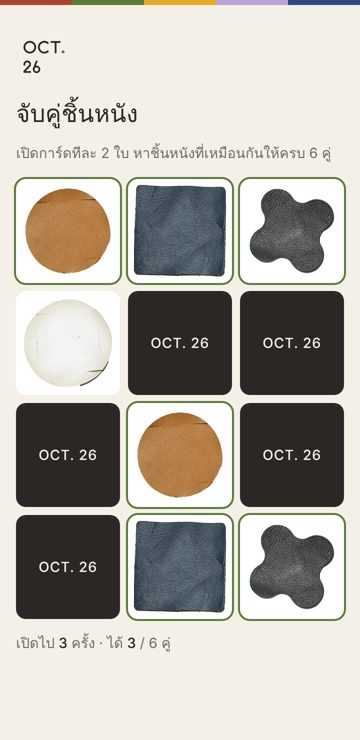
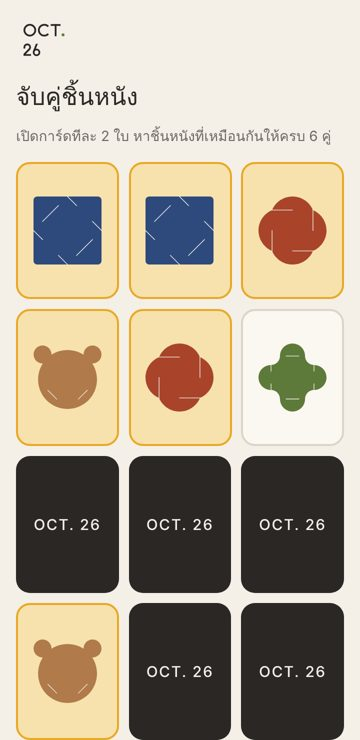
Booth game: cards drawn as in the first booth game, as the owner asked
Owner 26 Oct: keep the look of the first booth game (booth-game-20261025). The cards now carry
its flat drawings of patterns 01-05 and 07 in the house colours (src/game-cards.json, taken
from that game's built page), 3:4 cards that flip, matched pairs in sunflower. The photo cards
go; /game/done keeps the 01 photo the brief asks for.

Claude-Session: https://claude.ai/code/session_01JbgEUjroqhBveZrEaPETJc

diff --git a/website/public/game.html b/website/public/game.html
@@ -4,11 +4,11 @@
 <link rel="icon" href="/assets/logo/square-light.svg" type="image/svg+xml"><meta name="theme-color" content="#F4F0E8">
 <link rel="preconnect" href="https://fonts.googleapis.com"><link rel="preconnect" href="https://fonts.gstatic.com" crossorigin>
 <link rel="stylesheet" href="https://fonts.googleapis.com/css2?family=Anuphan:wght@500&family=IBM+Plex+Sans+Thai:wght@400;600&family=Jost:wght@400;500&display=swap">
-<link rel="preload" as="image" href="/assets/game/01-3.webp"><link rel="preload" as="image" href="/assets/game/03-1.webp"><link rel="preload" as="image" href="/assets/game/04-2.webp"><link rel="preload" as="image" href="/assets/game/05-6.webp"><link rel="preload" as="image" href="/assets/game/07-4.webp"><link rel="preload" as="image" href="/assets/game/05-2.webp">
+
 <style>
 /* Booth game (30 Oct–1 Nov 2026): one narrow column on cotton, charcoal type, the five family colours only as a thin band.
    No form, no cookie, no storage: finishing loads /game/done, which the site's request stats can count. */
-:root{--cotton:#F4F0E8;--paper:#FBF9F4;--face:#FFFFFF;--charcoal:#2A2725;--muted:#6E6A64;--line:#DCD4C7;--mom:#5E7A3A;
+:root{--cotton:#F4F0E8;--paper:#FBF9F4;--sheet:#FBF8F2;--sun:#E9A825;--sun-soft:#F7E2AE;--charcoal:#2A2725;--muted:#6E6A64;--line:#DCD4C7;--mom:#5E7A3A;
   --th:"Anuphan","IBM Plex Sans Thai",system-ui,sans-serif;--body:"IBM Plex Sans Thai",system-ui,sans-serif;--latin:"Jost",system-ui,sans-serif;color-scheme:light}
 *{box-sizing:border-box}
 html{-webkit-text-size-adjust:100%}
@@ -20,22 +20,25 @@ main{max-width:440px;margin:0 auto;padding:24px max(16px,env(safe-area-inset-rig
 .view{display:flex;flex-direction:column;gap:14px}
 .logo{width:56px;height:56px;display:block}
 h1{font-family:var(--th);font-weight:500;font-size:24px;line-height:1.25;margin:0}
-.done h1{font-size:30px}
+.end h1{font-size:30px}
 p{margin:0}
 .muted{color:var(--muted);font-size:14px;text-wrap:pretty}
 h1{text-wrap:balance}
-.board{display:grid;grid-template-columns:repeat(3,minmax(0,1fr));gap:8px}
-.cd{position:relative;aspect-ratio:1/1;border:0;border-radius:10px;padding:0;cursor:pointer;background:var(--charcoal);color:var(--cotton);
-  font:500 14px var(--latin);letter-spacing:.04em;display:grid;place-items:center;touch-action:manipulation;-webkit-tap-highlight-color:transparent}
-.cd img{position:absolute;inset:6px;width:calc(100% - 12px);height:calc(100% - 12px);object-fit:contain;opacity:0}
-.cd.open,.cd.done{background:var(--face)}
-.cd.open img,.cd.done img{opacity:1}
-.cd.open span,.cd.done span{opacity:0}
-.cd.done{outline:2px solid var(--mom);cursor:default}
-.cd:focus-visible{outline:3px solid #E9A825;outline-offset:2px}
-@media (prefers-reduced-motion:no-preference){.cd{transition:background .18s}.cd img,.cd span{transition:opacity .18s}}
+.board{display:grid;grid-template-columns:repeat(3,minmax(0,1fr));gap:10px}
+/* cards as in the first booth game (booth-game-20261025): charcoal back, a flat drawing of each pattern on the front,
+   a flip; a matched pair turns sunflower */
+.cd{position:relative;aspect-ratio:3/4;border:0;padding:0;border-radius:14px;background:transparent;cursor:pointer;
+  touch-action:manipulation;-webkit-tap-highlight-color:transparent}
+.face{position:absolute;inset:0;border-radius:14px;display:grid;place-items:center;backface-visibility:hidden;-webkit-backface-visibility:hidden}
+.back{background:var(--charcoal);color:var(--cotton);font:500 15px var(--latin);letter-spacing:.08em}
+.front{background:var(--sheet);transform:rotateY(180deg);border:2px solid var(--line)}
+.front svg{width:72%;height:auto}
+.cd.open .back,.cd.done .back{transform:rotateY(180deg)}.cd.open .front,.cd.done .front{transform:rotateY(360deg)}
+.cd.done{cursor:default}.cd.done .front{background:var(--sun-soft);border-color:var(--sun)}
+.cd:focus-visible{outline:3px solid #2E4A7D;outline-offset:3px;border-radius:14px}
+@media (prefers-reduced-motion:no-preference){.face{transition:transform .3s}}
 .count{font-size:14px;color:var(--muted)}.count b{color:var(--charcoal);font-family:var(--latin);font-weight:500}
-.done{text-align:center;align-items:center}
+.end{text-align:center;align-items:center}
 .time{font-family:var(--latin);font-size:18px;color:var(--muted)}
 .ticket{width:100%;background:#fff;border:2px solid var(--charcoal);border-radius:16px;padding:18px 16px;display:flex;flex-direction:column;align-items:center;gap:6px}
 .ticket b{font-family:var(--th);font-weight:500;font-size:17px;line-height:1.3}
@@ -57,7 +60,7 @@ h1{text-wrap:balance}
 <p class="count" aria-live="polite">เปิดไป <b id="moves">0</b> ครั้ง · ได้ <b id="pairs">0</b> / 6 คู่</p>
 <noscript><p class="small">เบราว์เซอร์นี้เปิดเกมไม่ได้ แวะมาที่บูธ OCT. 26 ได้เลย</p></noscript>
 </section>
-<section class="view done" id="v-done" hidden>
+<section class="view end" id="v-done" hidden>
 <img class="logo" src="/assets/logo/square-light.svg" alt="OCT. 26">
 <h1>เล่นจบแล้ว</h1>
 <p class="time" id="now" aria-label="เวลาตอนนี้"></p>
@@ -68,7 +71,7 @@ h1{text-wrap:balance}
 <div class="btns"><a class="btn dark" href="https://www.instagram.com/oct.26_brand/" target="_blank" rel="noopener">Instagram</a><a class="btn light" href="https://www.facebook.com/oct26brand" target="_blank" rel="noopener">Facebook</a></div>
 <p class="small">ไม่ติดตามก็รับได้ · คนละ 1 แผ่น</p>
 </section>
-<section class="view done" id="v-ended" hidden>
+<section class="view end" id="v-ended" hidden>
 <img class="logo" src="/assets/logo/square-light.svg" alt="OCT. 26">
 <h1>กิจกรรมที่บูธจบแล้ว ขอบคุณที่แวะมา</h1>
 <div class="btns"><a class="btn dark" href="/">หน้าแรก</a></div>
@@ -77,7 +80,7 @@ h1{text-wrap:balance}
 </main>
 <script>
 // game page; after the last booth day both pages show the "ended" view (build.py also writes it once rebuilt)
-const G = {"kind": "game", "cards": ["01-3", "03-1", "04-2", "05-6", "07-4", "05-2"], "names": {"01-3": "ชิ้นหนัง 01 หมี", "03-1": "ชิ้นหนัง 03 กากบาทแคปซูล", "04-2": "ชิ้นหนัง 04 สี่เหลี่ยมมน", "05-6": "ชิ้นหนัง 05 วงกลม", "07-4": "ชิ้นหนัง 07 กากบาทข้อต่อวงกลม", "05-2": "ชิ้นหนัง 05 วงกลม"}, "until": "2026-11-01T17:00:00+07:00"};
+const G = {"kind": "game", "cards": ["01", "02", "03", "04", "05", "07"], "names": {"01": "แพตเทิร์น 01 หมี", "02": "แพตเทิร์น 02 กังหัน", "03": "แพตเทิร์น 03 กากบาทแคปซูล", "04": "แพตเทิร์น 04 สี่เหลี่ยมมน", "05": "แพตเทิร์น 05 วงกลม", "07": "แพตเทิร์น 07 กากบาทข้อต่อวงกลม"}, "until": "2026-11-01T17:00:00+07:00", "svgs": {"01": "<svg viewBox=\"-2 -2 100.5 94.1\" aria-hidden=\"true\"><g fill=\"#B07A4A\" fill-rule=\"evenodd\" stroke=\"none\" stroke-linejoin=\"round\"><g transform=\"translate(-3.900 -18.800) rotate(-45 52.18 52.18)\"><path d=\"M100.650,53.709 C95.699,48.758 87.670,48.758 82.719,53.709 C82.629,53.799 82.544,53.893 82.457,53.985 C80.841,46.368 77.077,39.115 71.161,33.199 C65.245,27.283 57.992,23.519 50.375,21.903 C50.468,21.816 50.561,21.731 50.651,21.641 C55.602,16.689 55.602,8.661 50.651,3.710 C45.699,-1.242 37.671,-1.242 32.720,3.710 C27.768,8.661 27.768,16.689 32.720,21.641 C32.810,21.731 32.903,21.816 32.995,21.903 C25.378,23.519 18.126,27.283 12.210,33.199 C-4.070,49.478 -4.070,75.872 12.209,92.151 C28.488,108.430 54.882,108.430 71.161,92.151 C77.077,86.234 80.841,78.982 82.457,71.365 C82.544,71.457 82.629,71.550 82.719,71.641 C87.670,76.592 95.699,76.592 100.650,71.641 C105.602,66.689 105.602,58.661 100.650,53.709 Z\"/></g></g><g fill=\"none\" stroke=\"#F4F0E8\" stroke-width=\"0.9\" stroke-linecap=\"round\"><g transform=\"translate(-3.900 -18.800) rotate(-45 52.18 52.18)\"> <line x1=\"11.200\" y1=\"71.615\" x2=\"11.200\" y2=\"53.705\"/> <line x1=\"32.745\" y1=\"93.160\" x2=\"50.655\" y2=\"93.160\"/> </g></g></svg>", "02": "<svg viewBox=\"-2 -2 94.0 94.0\" aria-hidden=\"true\"><g fill=\"#A9442B\" fill-rule=\"evenodd\" stroke=\"none\" stroke-linejoin=\"round\"><path d=\"M90.000,45.000 C90.000,32.834 82.599,22.398 72.053,17.946 C67.602,7.401 57.166,0.000 45.000,0.000 C32.834,0.000 22.398,7.401 17.947,17.946 C7.401,22.398 0.000,32.834 0.000,45.000 C0.000,57.166 7.401,67.602 17.947,72.053 C22.398,82.599 32.834,90.000 45.000,90.000 C57.166,90.000 67.602,82.599 72.053,72.053 C82.599,67.602 90.000,57.166 90.000,45.000 Z\"/></g><g fill=\"none\" stroke=\"#F4F0E8\" stroke-width=\"0.9\" stroke-linecap=\"round\"><line x1=\"73.054\" y1=\"72.054\" x2=\"45.000\" y2=\"72.054\"/> <line x1=\"17.946\" y1=\"73.054\" x2=\"17.946\" y2=\"45.000\"/> <line x1=\"72.054\" y1=\"16.946\" x2=\"72.054\" y2=\"45.000\"/> <line x1=\"16.946\" y1=\"17.946\" x2=\"45.000\" y2=\"17.946\"/></g></svg>", "03": "<svg viewBox=\"-2 -2 94.01 94.0\" aria-hidden=\"true\"><g fill=\"#B9A3D6\" fill-rule=\"evenodd\" stroke=\"none\" stroke-linejoin=\"round\"><path d=\"M67.508,22.500 C67.505,22.500 67.503,22.501 67.499,22.501 C67.499,22.499 67.500,22.497 67.500,22.496 C67.500,10.070 57.426,-0.004 45.000,-0.004 C32.573,-0.004 22.499,10.070 22.499,22.496 C22.499,22.497 22.500,22.499 22.500,22.500 C10.073,22.500 0.000,32.574 0.000,45.000 C0.000,57.427 10.073,67.500 22.500,67.500 C22.501,67.500 22.503,67.500 22.504,67.500 C22.504,79.926 32.578,90.000 45.004,90.000 C57.430,90.000 67.504,79.926 67.504,67.500 C67.505,67.500 67.507,67.500 67.508,67.500 C79.934,67.500 90.008,57.427 90.008,45.000 C90.008,32.574 79.934,22.500 67.508,22.500 Z\"/></g><g fill=\"none\" stroke=\"#F4F0E8\" stroke-width=\"0.9\" stroke-linecap=\"round\"><line x1=\"22.500\" y1=\"56.250\" x2=\"22.500\" y2=\"33.750\"/> <line x1=\"67.500\" y1=\"56.250\" x2=\"67.500\" y2=\"33.750\"/> <line x1=\"68.500\" y1=\"22.500\" x2=\"56.000\" y2=\"22.500\"/> <line x1=\"21.500\" y1=\"22.500\" x2=\"34.000\" y2=\"22.500\"/> <line x1=\"68.500\" y1=\"67.500\" x2=\"56.000\" y2=\"67.500\"/> <line x1=\"21.500\" y1=\"67.500\" x2=\"34.000\" y2=\"67.500\"/></g></svg>", "04": "<svg viewBox=\"-2 -2 94.0 94.0\" aria-hidden=\"true\"><g fill=\"#2E4A7D\" fill-rule=\"evenodd\" stroke=\"none\" stroke-linejoin=\"round\"><path d=\"M90.000,5.000 L90.000,85.000 C90.000,87.761 87.761,90.000 85.000,90.000 L5.000,90.000 C2.238,90.000 0.000,87.761 0.000,85.000 L0.000,5.000 C0.000,2.238 2.238,0.000 5.000,0.000 L85.000,0.000 C87.761,0.000 90.000,2.238 90.000,5.000 Z\"/></g><g fill=\"none\" stroke=\"#F4F0E8\" stroke-width=\"0.9\" stroke-linecap=\"round\"><line x1=\"56.893\" y1=\"78.107\" x2=\"78.107\" y2=\"56.893\"/> <line x1=\"11.893\" y1=\"33.107\" x2=\"33.107\" y2=\"11.893\"/> <line x1=\"90.707\" y1=\"45.707\" x2=\"77.930\" y2=\"32.930\"/> <line x1=\"44.293\" y1=\"-0.707\" x2=\"57.070\" y2=\"12.070\"/> <line x1=\"45.707\" y1=\"90.707\" x2=\"32.930\" y2=\"77.930\"/> <line x1=\"-0.707\" y1=\"44.293\" x2=\"12.070\" y2=\"57.070\"/></g></svg>", "05": "<svg viewBox=\"-2 -2 94.0 94.0\" aria-hidden=\"true\"><g fill=\"#E9A825\" fill-rule=\"evenodd\" stroke=\"none\" stroke-linejoin=\"round\"><path d=\"M90.000,45.000 C90.000,69.852 69.853,90.000 45.000,90.000 C20.147,90.000 0.000,69.852 0.000,45.000 C0.000,20.147 20.147,-0.001 45.000,-0.001 C69.853,-0.001 90.000,20.147 90.000,45.000 Z\"/></g><g fill=\"none\" stroke=\"#F4F0E8\" stroke-width=\"0.9\" stroke-linecap=\"round\"><line x1=\"30.000\" y1=\"13.180\" x2=\"60.000\" y2=\"13.180\"/> <line x1=\"30.000\" y1=\"76.820\" x2=\"60.000\" y2=\"76.820\"/> <line x1=\"76.820\" y1=\"12.180\" x2=\"76.820\" y2=\"30.250\"/> <line x1=\"76.820\" y1=\"77.820\" x2=\"76.820\" y2=\"59.750\"/> <line x1=\"13.180\" y1=\"12.180\" x2=\"13.180\" y2=\"30.250\"/> <line x1=\"13.180\" y1=\"77.820\" x2=\"13.180\" y2=\"59.750\"/></g></svg>", "07": "<svg viewBox=\"-2 -2 94.0 94.0\" aria-hidden=\"true\"><g fill=\"#5E7A3A\" fill-rule=\"evenodd\" stroke=\"none\" stroke-linejoin=\"round\"><path d=\"M90.000,45.000 C90.000,35.846 82.580,28.426 73.427,28.426 C73.401,28.426 73.377,28.429 73.352,28.429 L73.333,28.410 C66.888,28.359 61.672,23.160 61.592,16.722 L61.584,16.714 C61.584,16.667 61.588,16.621 61.588,16.573 C61.588,7.420 54.168,0.000 45.015,0.000 C35.861,0.000 28.441,7.420 28.441,16.573 C28.441,16.617 28.445,16.660 28.445,16.704 L28.408,16.742 C28.318,23.167 23.112,28.353 16.678,28.409 L16.658,28.429 C16.630,28.429 16.602,28.426 16.573,28.426 C7.420,28.426 0.000,35.846 0.000,45.000 C0.000,54.153 7.420,61.573 16.573,61.573 C16.575,61.573 16.577,61.573 16.579,61.573 L16.579,61.573 C23.111,61.577 28.406,66.870 28.412,73.402 L28.441,73.432 C28.445,82.582 35.863,90.000 45.015,90.000 C54.168,90.000 61.588,82.580 61.588,73.427 C61.588,73.425 61.588,73.423 61.588,73.421 L61.588,73.421 C61.588,73.418 61.588,73.415 61.588,73.412 C61.588,66.874 66.888,61.573 73.427,61.573 C73.428,61.573 73.430,61.573 73.432,61.573 L73.432,61.573 C82.583,61.570 90.000,54.151 90.000,45.000 Z\"/></g><g fill=\"none\" stroke=\"#F4F0E8\" stroke-width=\"0.9\" stroke-linecap=\"round\"><line x1=\"36.460\" y1=\"16.570\" x2=\"53.560\" y2=\"16.570\"/> <line x1=\"36.460\" y1=\"73.430\" x2=\"53.560\" y2=\"73.430\"/> <line x1=\"73.440\" y1=\"27.427\" x2=\"73.440\" y2=\"36.700\"/> <line x1=\"73.440\" y1=\"62.573\" x2=\"73.440\" y2=\"53.300\"/> <line x1=\"16.580\" y1=\"27.427\" x2=\"16.580\" y2=\"36.700\"/> <line x1=\"16.580\" y1=\"62.574\" x2=\"16.580\" y2=\"53.300\"/></g></svg>"}};
 const $ = id => document.getElementById(id);
 function view(v){ ["game","done","ended"].forEach(k => $("v-" + k).hidden = k !== v); }
 if (Date.now() > Date.parse(G.until)) view("ended");
@@ -89,7 +92,7 @@ else if (G.kind === "done") {
   const deck = [...G.cards, ...G.cards];
   for (let i = deck.length - 1; i > 0; i--) { const j = Math.floor(Math.random() * (i + 1)); [deck[i], deck[j]] = [deck[j], deck[i]]; }
   const closed = i => `การ์ดใบที่ ${i + 1} ยังปิดอยู่`;
-  $("board").innerHTML = deck.map((k, i) => `<button class="cd" type="button" data-k="${k}" data-i="${i}" aria-label="${closed(i)}"><span aria-hidden="true">OCT. 26</span><img src="/assets/game/${k}.webp" alt=""></button>`).join("");
+  $("board").innerHTML = deck.map((k, i) => `<button class="cd" type="button" data-k="${k}" data-i="${i}" aria-label="${closed(i)}"><span class="face back" aria-hidden="true">OCT. 26</span><span class="face front" aria-hidden="true">${G.svgs[k]}</span></button>`).join("");
   let open = [], moves = 0, pairs = 0, lock = false;
   $("board").addEventListener("click", e => {
     const c = e.target.closest(".cd");

diff --git a/website/public/game/done.html b/website/public/game/done.html
@@ -8,7 +8,7 @@
 <style>
 /* Booth game (30 Oct–1 Nov 2026): one narrow column on cotton, charcoal type, the five family colours only as a thin band.
    No form, no cookie, no storage: finishing loads /game/done, which the site's request stats can count. */
-:root{--cotton:#F4F0E8;--paper:#FBF9F4;--face:#FFFFFF;--charcoal:#2A2725;--muted:#6E6A64;--line:#DCD4C7;--mom:#5E7A3A;
+:root{--cotton:#F4F0E8;--paper:#FBF9F4;--sheet:#FBF8F2;--sun:#E9A825;--sun-soft:#F7E2AE;--charcoal:#2A2725;--muted:#6E6A64;--line:#DCD4C7;--mom:#5E7A3A;
   --th:"Anuphan","IBM Plex Sans Thai",system-ui,sans-serif;--body:"IBM Plex Sans Thai",system-ui,sans-serif;--latin:"Jost",system-ui,sans-serif;color-scheme:light}
 *{box-sizing:border-box}
 html{-webkit-text-size-adjust:100%}
@@ -20,22 +20,25 @@ main{max-width:440px;margin:0 auto;padding:24px max(16px,env(safe-area-inset-rig
 .view{display:flex;flex-direction:column;gap:14px}
 .logo{width:56px;height:56px;display:block}
 h1{font-family:var(--th);font-weight:500;font-size:24px;line-height:1.25;margin:0}
-.done h1{font-size:30px}
+.end h1{font-size:30px}
 p{margin:0}
 .muted{color:var(--muted);font-size:14px;text-wrap:pretty}
 h1{text-wrap:balance}
-.board{display:grid;grid-template-columns:repeat(3,minmax(0,1fr));gap:8px}
-.cd{position:relative;aspect-ratio:1/1;border:0;border-radius:10px;padding:0;cursor:pointer;background:var(--charcoal);color:var(--cotton);
-  font:500 14px var(--latin);letter-spacing:.04em;display:grid;place-items:center;touch-action:manipulation;-webkit-tap-highlight-color:transparent}
-.cd img{position:absolute;inset:6px;width:calc(100% - 12px);height:calc(100% - 12px);object-fit:contain;opacity:0}
-.cd.open,.cd.done{background:var(--face)}
-.cd.open img,.cd.done img{opacity:1}
-.cd.open span,.cd.done span{opacity:0}
-.cd.done{outline:2px solid var(--mom);cursor:default}
-.cd:focus-visible{outline:3px solid #E9A825;outline-offset:2px}
-@media (prefers-reduced-motion:no-preference){.cd{transition:background .18s}.cd img,.cd span{transition:opacity .18s}}
+.board{display:grid;grid-template-columns:repeat(3,minmax(0,1fr));gap:10px}
+/* cards as in the first booth game (booth-game-20261025): charcoal back, a flat drawing of each pattern on the front,
+   a flip; a matched pair turns sunflower */
+.cd{position:relative;aspect-ratio:3/4;border:0;padding:0;border-radius:14px;background:transparent;cursor:pointer;
+  touch-action:manipulation;-webkit-tap-highlight-color:transparent}
+.face{position:absolute;inset:0;border-radius:14px;display:grid;place-items:center;backface-visibility:hidden;-webkit-backface-visibility:hidden}
+.back{background:var(--charcoal);color:var(--cotton);font:500 15px var(--latin);letter-spacing:.08em}
+.front{background:var(--sheet);transform:rotateY(180deg);border:2px solid var(--line)}
+.front svg{width:72%;height:auto}
+.cd.open .back,.cd.done .back{transform:rotateY(180deg)}.cd.open .front,.cd.done .front{transform:rotateY(360deg)}
+.cd.done{cursor:default}.cd.done .front{background:var(--sun-soft);border-color:var(--sun)}
+.cd:focus-visible{outline:3px solid #2E4A7D;outline-offset:3px;border-radius:14px}
+@media (prefers-reduced-motion:no-preference){.face{transition:transform .3s}}
 .count{font-size:14px;color:var(--muted)}.count b{color:var(--charcoal);font-family:var(--latin);font-weight:500}
-.done{text-align:center;align-items:center}
+.end{text-align:center;align-items:center}
 .time{font-family:var(--latin);font-size:18px;color:var(--muted)}
 .ticket{width:100%;background:#fff;border:2px solid var(--charcoal);border-radius:16px;padding:18px 16px;display:flex;flex-direction:column;align-items:center;gap:6px}
 .ticket b{font-family:var(--th);font-weight:500;font-size:17px;line-height:1.3}
@@ -57,7 +60,7 @@ h1{text-wrap:balance}
 <p class="count" aria-live="polite">เปิดไป <b id="moves">0</b> ครั้ง · ได้ <b id="pairs">0</b> / 6 คู่</p>
 <noscript><p class="small">เบราว์เซอร์นี้เปิดเกมไม่ได้ แวะมาที่บูธ OCT. 26 ได้เลย</p></noscript>
 </section>
-<section class="view done" id="v-done" >
+<section class="view end" id="v-done" >
 <img class="logo" src="/assets/logo/square-light.svg" alt="OCT. 26">
 <h1>เล่นจบแล้ว</h1>
 <p class="time" id="now" aria-label="เวลาตอนนี้"></p>
@@ -68,7 +71,7 @@ h1{text-wrap:balance}
 <div class="btns"><a class="btn dark" href="https://www.instagram.com/oct.26_brand/" target="_blank" rel="noopener">Instagram</a><a class="btn light" href="https://www.facebook.com/oct26brand" target="_blank" rel="noopener">Facebook</a></div>
 <p class="small">ไม่ติดตามก็รับได้ · คนละ 1 แผ่น</p>
 </section>
-<section class="view done" id="v-ended" hidden>
+<section class="view end" id="v-ended" hidden>
 <img class="logo" src="/assets/logo/square-light.svg" alt="OCT. 26">
 <h1>กิจกรรมที่บูธจบแล้ว ขอบคุณที่แวะมา</h1>
 <div class="btns"><a class="btn dark" href="/">หน้าแรก</a></div>
@@ -77,7 +80,7 @@ h1{text-wrap:balance}
 </main>
 <script>
 // done page; after the last booth day both pages show the "ended" view (build.py also writes it once rebuilt)
-const G = {"kind": "done", "cards": ["01-3", "03-1", "04-2", "05-6", "07-4", "05-2"], "names": {"01-3": "ชิ้นหนัง 01 หมี", "03-1": "ชิ้นหนัง 03 กากบาทแคปซูล", "04-2": "ชิ้นหนัง 04 สี่เหลี่ยมมน", "05-6": "ชิ้นหนัง 05 วงกลม", "07-4": "ชิ้นหนัง 07 กากบาทข้อต่อวงกลม", "05-2": "ชิ้นหนัง 05 วงกลม"}, "until": "2026-11-01T17:00:00+07:00"};
+const G = {"kind": "done", "cards": ["01", "02", "03", "04", "05", "07"], "names": {"01": "แพตเทิร์น 01 หมี", "02": "แพตเทิร์น 02 กังหัน", "03": "แพตเทิร์น 03 กากบาทแคปซูล", "04": "แพตเทิร์น 04 สี่เหลี่ยมมน", "05": "แพตเทิร์น 05 วงกลม", "07": "แพตเทิร์น 07 กากบาทข้อต่อวงกลม"}, "until": "2026-11-01T17:00:00+07:00", "svgs": {}};
 const $ = id => document.getElementById(id);
 function view(v){ ["game","done","ended"].forEach(k => $("v-" + k).hidden = k !== v); }
 if (Date.now() > Date.parse(G.until)) view("ended");
@@ -89,7 +92,7 @@ else if (G.kind === "done") {
   const deck = [...G.cards, ...G.cards];
   for (let i = deck.length - 1; i > 0; i--) { const j = Math.floor(Math.random() * (i + 1)); [deck[i], deck[j]] = [deck[j], deck[i]]; }
   const closed = i => `การ์ดใบที่ ${i + 1} ยังปิดอยู่`;
-  $("board").innerHTML = deck.map((k, i) => `<button class="cd" type="button" data-k="${k}" data-i="${i}" aria-label="${closed(i)}"><span aria-hidden="true">OCT. 26</span><img src="/assets/game/${k}.webp" alt=""></button>`).join("");
+  $("board").innerHTML = deck.map((k, i) => `<button class="cd" type="button" data-k="${k}" data-i="${i}" aria-label="${closed(i)}"><span class="face back" aria-hidden="true">OCT. 26</span><span class="face front" aria-hidden="true">${G.svgs[k]}</span></button>`).join("");
   let open = [], moves = 0, pairs = 0, lock = false;
   $("board").addEventListener("click", e => {
     const c = e.target.closest(".cd");

diff --git a/website/src/game.html b/website/src/game.html
@@ -8,7 +8,7 @@
 <style>
 /* Booth game (30 Oct–1 Nov 2026): one narrow column on cotton, charcoal type, the five family colours only as a thin band.
    No form, no cookie, no storage: finishing loads /game/done, which the site's request stats can count. */
-:root{--cotton:#F4F0E8;--paper:#FBF9F4;--face:#FFFFFF;--charcoal:#2A2725;--muted:#6E6A64;--line:#DCD4C7;--mom:#5E7A3A;
+:root{--cotton:#F4F0E8;--paper:#FBF9F4;--sheet:#FBF8F2;--sun:#E9A825;--sun-soft:#F7E2AE;--charcoal:#2A2725;--muted:#6E6A64;--line:#DCD4C7;--mom:#5E7A3A;
   --th:"Anuphan","IBM Plex Sans Thai",system-ui,sans-serif;--body:"IBM Plex Sans Thai",system-ui,sans-serif;--latin:"Jost",system-ui,sans-serif;color-scheme:light}
 *{box-sizing:border-box}
 html{-webkit-text-size-adjust:100%}
@@ -20,22 +20,25 @@ main{max-width:440px;margin:0 auto;padding:24px max(16px,env(safe-area-inset-rig
 .view{display:flex;flex-direction:column;gap:14px}
 .logo{width:56px;height:56px;display:block}
 h1{font-family:var(--th);font-weight:500;font-size:24px;line-height:1.25;margin:0}
-.done h1{font-size:30px}
+.end h1{font-size:30px}
 p{margin:0}
 .muted{color:var(--muted);font-size:14px;text-wrap:pretty}
 h1{text-wrap:balance}
-.board{display:grid;grid-template-columns:repeat(3,minmax(0,1fr));gap:8px}
-.cd{position:relative;aspect-ratio:1/1;border:0;border-radius:10px;padding:0;cursor:pointer;background:var(--charcoal);color:var(--cotton);
-  font:500 14px var(--latin);letter-spacing:.04em;display:grid;place-items:center;touch-action:manipulation;-webkit-tap-highlight-color:transparent}
-.cd img{position:absolute;inset:6px;width:calc(100% - 12px);height:calc(100% - 12px);object-fit:contain;opacity:0}
-.cd.open,.cd.done{background:var(--face)}
-.cd.open img,.cd.done img{opacity:1}
-.cd.open span,.cd.done span{opacity:0}
-.cd.done{outline:2px solid var(--mom);cursor:default}
-.cd:focus-visible{outline:3px solid #E9A825;outline-offset:2px}
-@media (prefers-reduced-motion:no-preference){.cd{transition:background .18s}.cd img,.cd span{transition:opacity .18s}}
+.board{display:grid;grid-template-columns:repeat(3,minmax(0,1fr));gap:10px}
+/* cards as in the first booth game (booth-game-20261025): charcoal back, a flat drawing of each pattern on the front,
+   a flip; a matched pair turns sunflower */
+.cd{position:relative;aspect-ratio:3/4;border:0;padding:0;border-radius:14px;background:transparent;cursor:pointer;
+  touch-action:manipulation;-webkit-tap-highlight-color:transparent}
+.face{position:absolute;inset:0;border-radius:14px;display:grid;place-items:center;backface-visibility:hidden;-webkit-backface-visibility:hidden}
+.back{background:var(--charcoal);color:var(--cotton);font:500 15px var(--latin);letter-spacing:.08em}
+.front{background:var(--sheet);transform:rotateY(180deg);border:2px solid var(--line)}
+.front svg{width:72%;height:auto}
+.cd.open .back,.cd.done .back{transform:rotateY(180deg)}.cd.open .front,.cd.done .front{transform:rotateY(360deg)}
+.cd.done{cursor:default}.cd.done .front{background:var(--sun-soft);border-color:var(--sun)}
+.cd:focus-visible{outline:3px solid #2E4A7D;outline-offset:3px;border-radius:14px}
+@media (prefers-reduced-motion:no-preference){.face{transition:transform .3s}}
 .count{font-size:14px;color:var(--muted)}.count b{color:var(--charcoal);font-family:var(--latin);font-weight:500}
-.done{text-align:center;align-items:center}
+.end{text-align:center;align-items:center}
 .time{font-family:var(--latin);font-size:18px;color:var(--muted)}
 .ticket{width:100%;background:#fff;border:2px solid var(--charcoal);border-radius:16px;padding:18px 16px;display:flex;flex-direction:column;align-items:center;gap:6px}
 .ticket b{font-family:var(--th);font-weight:500;font-size:17px;line-height:1.3}
@@ -57,7 +60,7 @@ h1{text-wrap:balance}
 <p class="count" aria-live="polite">เปิดไป <b id="moves">0</b> ครั้ง · ได้ <b id="pairs">0</b> / 6 คู่</p>
 <noscript><p class="small">เบราว์เซอร์นี้เปิดเกมไม่ได้ แวะมาที่บูธ OCT. 26 ได้เลย</p></noscript>
 </section>
-<section class="view done" id="v-done" {{hide_done}}>
+<section class="view end" id="v-done" {{hide_done}}>
 <img class="logo" src="/assets/logo/square-light.svg" alt="OCT. 26">
 <h1>เล่นจบแล้ว</h1>
 <p class="time" id="now" aria-label="เวลาตอนนี้"></p>
@@ -68,7 +71,7 @@ h1{text-wrap:balance}
 <div class="btns"><a class="btn dark" href="{{ig}}" target="_blank" rel="noopener">Instagram</a><a class="btn light" href="{{fb}}" target="_blank" rel="noopener">Facebook</a></div>
 <p class="small">ไม่ติดตามก็รับได้ · คนละ 1 แผ่น</p>
 </section>
-<section class="view done" id="v-ended" {{hide_ended}}>
+<section class="view end" id="v-ended" {{hide_ended}}>
 <img class="logo" src="/assets/logo/square-light.svg" alt="OCT. 26">
 <h1>กิจกรรมที่บูธจบแล้ว ขอบคุณที่แวะมา</h1>
 <div class="btns"><a class="btn dark" href="/">หน้าแรก</a></div>
@@ -89,7 +92,7 @@ else if (G.kind === "done") {
   const deck = [...G.cards, ...G.cards];
   for (let i = deck.length - 1; i > 0; i--) { const j = Math.floor(Math.random() * (i + 1)); [deck[i], deck[j]] = [deck[j], deck[i]]; }
   const closed = i => `การ์ดใบที่ ${i + 1} ยังปิดอยู่`;
-  $("board").innerHTML = deck.map((k, i) => `<button class="cd" type="button" data-k="${k}" data-i="${i}" aria-label="${closed(i)}"><span aria-hidden="true">OCT. 26</span><img src="/assets/game/${k}.webp" alt=""></button>`).join("");
+  $("board").innerHTML = deck.map((k, i) => `<button class="cd" type="button" data-k="${k}" data-i="${i}" aria-label="${closed(i)}"><span class="face back" aria-hidden="true">OCT. 26</span><span class="face front" aria-hidden="true">${G.svgs[k]}</span></button>`).join("");
   let open = [], moves = 0, pairs = 0, lock = false;
   $("board").addEventListener("click", e => {
     const c = e.target.closest(".cd");

diff --git a/website/summary-game/index.html b/website/summary-game/index.html
@@ -32,8 +32,8 @@ code{font-size:14px;background:rgba(42,39,37,.08);padding:1px 6px;border-radius:
 <div class="shots"><figure><img src="game.jpg" alt="หน้าเกม การ์ด 12 ใบ หลังการ์ดเขียน OCT. 26" width="360" height="740"><figcaption>/game เปิดการ์ดหาคู่</figcaption></figure>
 <figure><img src="done.jpg" alt="หน้าเล่นจบ โชว์ที่บูธ รับชิ้นหนัง 01 ฟรี" width="360" height="740"><figcaption>/game/done โชว์ที่บูธ</figcaption></figure></div></div></section>
 <section class="blk beiya"><div class="in"><span class="eb">ตัวเลข</span><h2>ตามคำสั่ง</h2>
-<ul><li>การ์ด 12 ใบ 6 คู่ รูปจริงไดคัต 01 03 04 05 05 07 สุ่มทุกครั้ง การ์ดกว้างราว 103 px กดด้วยนิ้วได้</li>
-<li>รูปชุดเดียวกับ mock รวม 273 KB · จบเกมแล้วไปที่อยู่ /game/done จริง นับจำนวนคนเล่นจบได้</li>
+<ul><li>การ์ด 12 ใบ 6 คู่ ลายแพตเทิร์น 01–05 และ 07 แบบเดียวกับเกมบูธเดิม (ตามที่เจ้าของเลือก 26 ต.ค.) พลิกได้ คู่ที่จับได้เป็นสีเหลือง สุ่มทุกครั้ง การ์ดกว้างราว 103 px</li>
+<li>การ์ดเป็นภาพวาดในหน้า ไม่ต้องโหลดรูป เปิดเร็ว · จบเกมแล้วไปที่อยู่ /game/done จริง นับจำนวนคนเล่นจบได้</li>
 <li>หน้าจบมีเวลาเวลาไทย กล่องขอบดำ "โชว์หน้านี้ที่บูธ OCT. 26 · รับชิ้นหนังวัวแท้ 01 ฟรี 1 แผ่น" ปุ่ม IG FB เป็นการชวน</li>
 <li>ไม่มีฟอร์ม ไม่ใช้ cookie ไม่เก็บอะไรในเครื่อง · ไม่อยู่ใน Google เมนู หรือ sitemap</li>
 <li>หลัง 1 พ.ย. 17:00 ทั้งสองหน้าขึ้น "กิจกรรมที่บูธจบแล้ว ขอบคุณที่แวะมา" เอง</li></ul></div></section>

diff --git a/website/build.py b/website/build.py
@@ -121,18 +121,20 @@ def game_pages():
     """/game (the matching game) and /game/done (show at the booth), noindex, not in the sitemap or menu. Built ended
     after GAME["until"]; before that the browser switches to the ended view itself at that time."""
     ended = time.time() > datetime.datetime.fromisoformat(C.GAME["until"]).timestamp()
-    names = {k: f"ชิ้นหนัง {k[:2]} {NAMES[k[:2]]}" for k in C.GAME["cards"]}
+    names = {k: f"แพตเทิร์น {k} {NAMES[k]}" for k in C.GAME["cards"]}
+    svgs = json.load(open(os.path.join(SRC, "game-cards.json")))
     tpl = open(os.path.join(SRC, "game.html")).read()
     os.makedirs(os.path.join(OUT, "game"), exist_ok=True)
     for kind, path, title in (("game", "game.html", "จับคู่ชิ้นหนัง"), ("done", os.path.join("game", "done.html"), "เล่นจบแล้ว")):
         show = "ended" if ended else kind
-        imgs = [] if ended else (C.GAME["cards"] if kind == "game" else ["01-3"])
+        imgs = [] if ended or kind == "game" else ["01-3"]
         s = tpl
         for k, v in {"title": title if not ended else "กิจกรรมจบแล้ว", "kind": kind, "ig": C.IG, "fb": C.FB,
                      "preload": "".join(f'<link rel="preload" as="image" href="/assets/game/{i}.webp">' for i in imgs),
                      "hide_game": "" if show == "game" else "hidden", "hide_done": "" if show == "done" else "hidden",
                      "hide_ended": "" if show == "ended" else "hidden",
-                     "config": json.dumps(dict(kind=kind, cards=C.GAME["cards"], names=names, until=C.GAME["until"]), ensure_ascii=False)}.items():
+                     "config": json.dumps(dict(kind=kind, cards=C.GAME["cards"], names=names, until=C.GAME["until"],
+                                             svgs={k: svgs[k] for k in C.GAME["cards"]} if kind == "game" else {}), ensure_ascii=False)}.items():
             s = s.replace("{{" + k + "}}", v)
         open(os.path.join(OUT, path), "w").write(s)
 

diff --git a/website/catalog.py b/website/catalog.py
@@ -70,9 +70,10 @@ def problems(products=None, shop=None, alt=None):
         for b in banned_in(shop["booth"].get(k, "")): out.append(f'บูธ: ใช้คำว่า "{b[0]}" ไม่ได้ ({b[1]})')
     return out
 
-# booth game at /game (30 Oct–1 Nov 2026, KIDS MARKET): six pairs of real die-cut photos (no real photo of 02 yet);
+# booth game at /game (30 Oct–1 Nov 2026, KIDS MARKET): six pairs of patterns drawn flat as in the first booth game
+# (owner 26 Oct: keep that look; drawings in src/game-cards.json); /game/done shows the real 01 photo;
 # after `until` both /game and /game/done say the booth activity has ended
-GAME = dict(cards=["01-3", "03-1", "04-2", "05-6", "07-4", "05-2"], until="2026-11-01T17:00:00+07:00")
+GAME = dict(cards=["01", "02", "03", "04", "05", "07"], until="2026-11-01T17:00:00+07:00")
 
 # old product pages (p/NN.html, 30 products) -> the page that sells the same thing now; everything else goes home
 OLD = {1: "OC-01-01", 22: "OC-01-22", 24: "OC-02-24", 26: "OC-03-26", 27: "OC-04-27", 28: "OC-05-28", 29: "OC-MX-29"}

diff --git a/website/README.md b/website/README.md
@@ -28,9 +28,10 @@ LINE order bar that copies the full order. Brand Book v2 colours, square logo, A
   Google Search Console (owner verifies the domain, then submit `sitemap.xml`), pattern pages 01–07, a leather care
   page, a workshop page and an ideas page, same keywords in Shopee titles.
 - `/game` and `/game/done` — the booth game for 30 Oct–1 Nov 2026 (KIDS MARKET, from the LINE rich menu "รับชิ้นหนังฟรี"):
-  match 6 pairs of real die-cut photos (`assets/game/`: the same files as the approved mock, booth-flow-20261030/site, 360 px webp with their soft shadow, ~273 KB),
+  match 6 pairs of patterns 01–05 and 07 drawn flat in the house colours, the same cards as the first booth game
+  (booth-game-20261025; owner 26 Oct: keep that look; drawings in `src/game-cards.json`, no image files to load),
   then /game/done shows the time and "โชว์หน้านี้ที่บูธ OCT. 26 · รับชิ้นหนังวัวแท้ 01 ฟรี 1 แผ่น". Page: `src/game.html`,
-  cards and end time: `catalog.GAME`. Finishing loads the real address /game/done so request stats can count it. No form,
+  cards and end time: `catalog.GAME`, the 01 photo on /game/done: `assets/game/01-3.webp`. Finishing loads the real address /game/done so request stats can count it. No form,
   no cookie, no storage; anyone may open /game/done directly (owner's choice). noindex, not in the sitemap or menu. After
   1 Nov 17:00 (Thai time) both pages say the booth activity has ended; rebuild once after that date so the files say it
   too. Not /play: _redirects sends that home (301). Thai summary: https://claude.ai/artifact/BYHS92GPtQr18ZFWDRQDrx (`summary-game/`).
